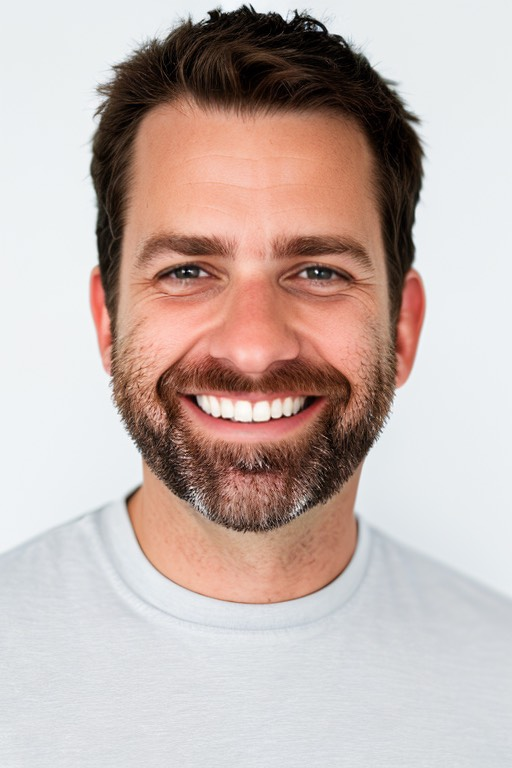
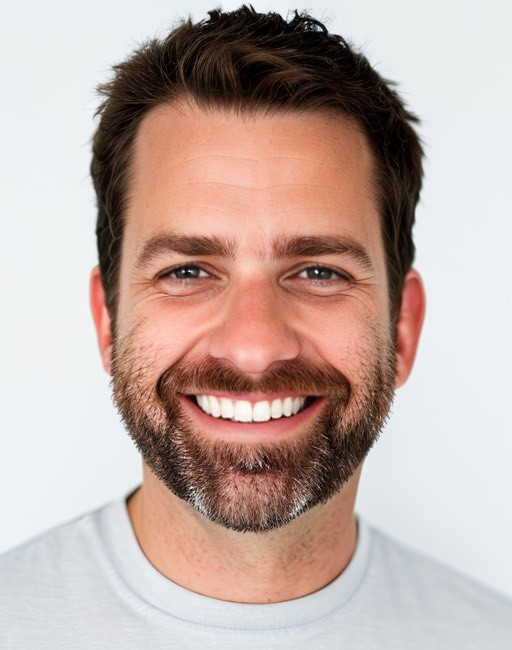
5.12 picture updates

diff --git a/index.html b/index.html
@@ -129,8 +129,8 @@ Have fun creating your portfolio on this template!!! -->
               class="img-fluid"
               src="./assets/profilepicmike.jpeg"
               alt="Profile Image"
-              width="256"
-              height="450"
+              width="75%"
+              height="90%"
             />
           </div>
           <div class="about-wrapper__info">
